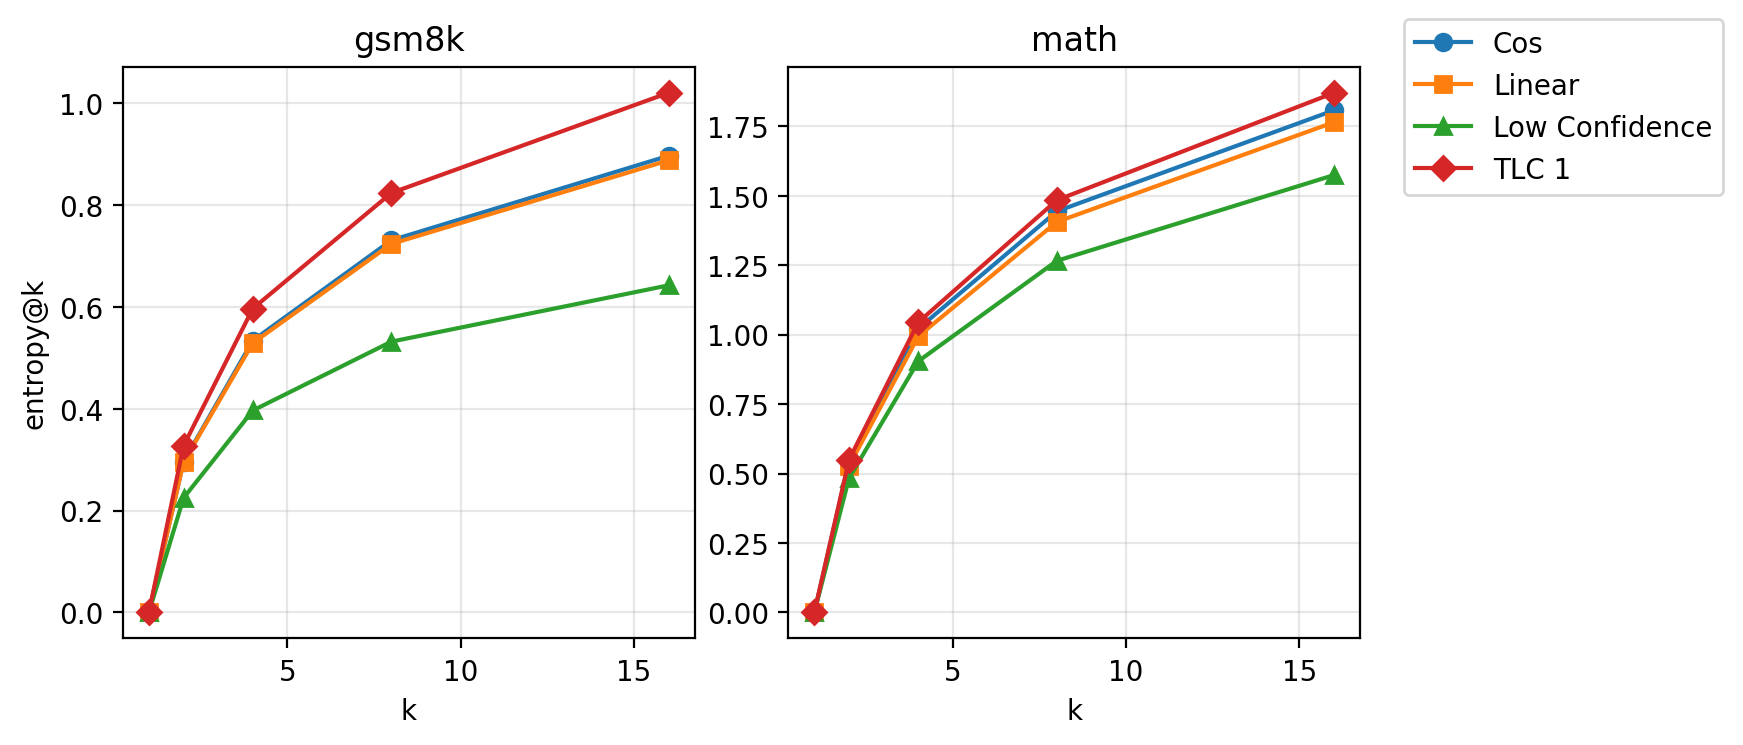
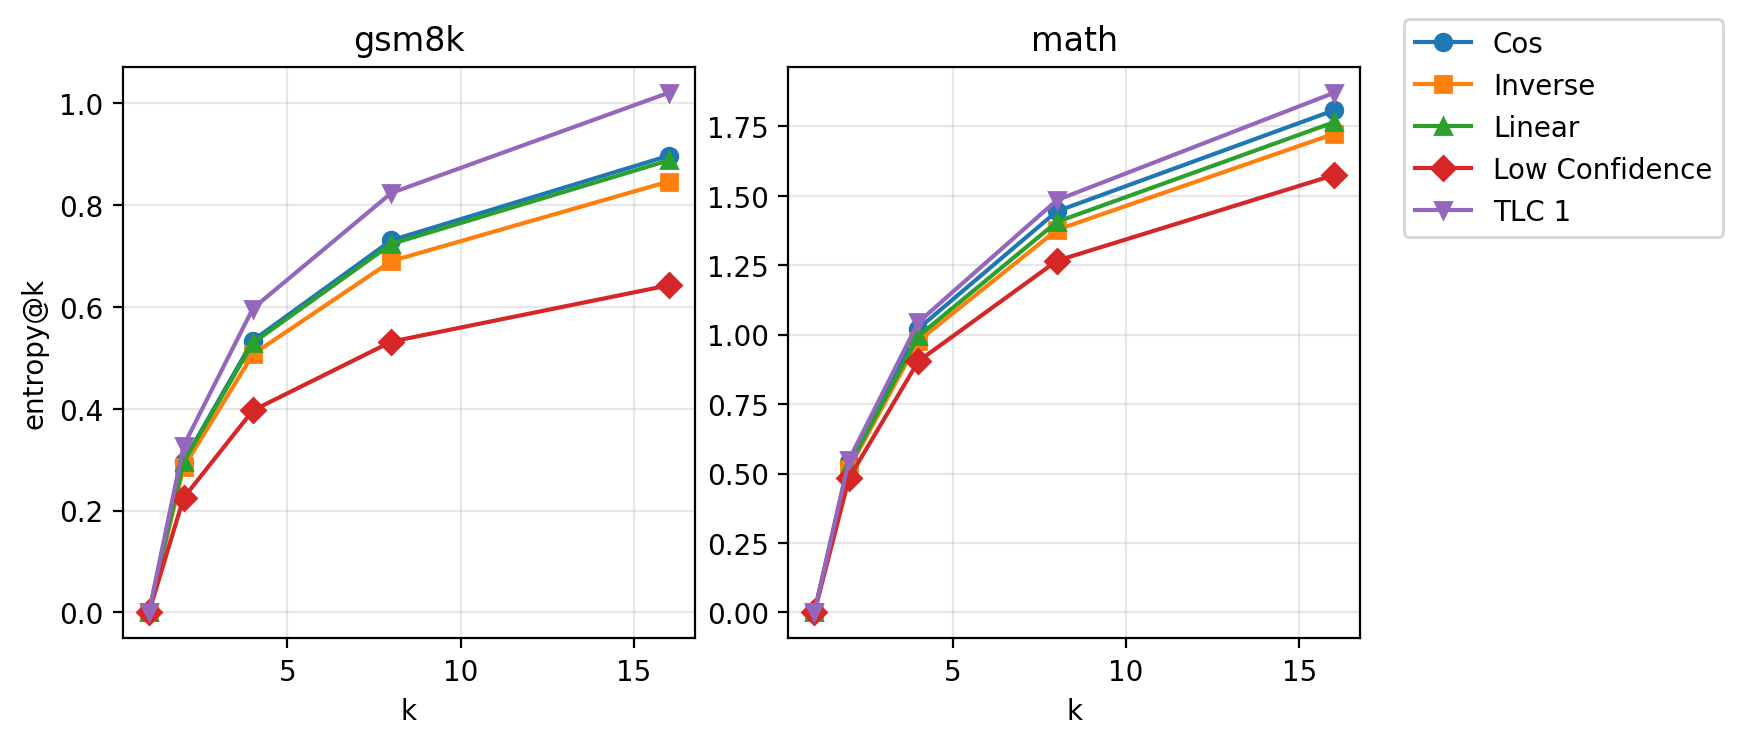
lowered n

diff --git a/analysis.py b/analysis.py
@@ -34,7 +34,7 @@ def stitch_data():
 
 
 markers_ = ["o", "s", "^", "D", "v", "P", "*"]
-shown_methods = ["Cos", "TLC 1", "Linear", "Low Confidence"]
+shown_methods = ["Cos", "TLC 1", "Linear", "Low Confidence", "Inverse"]
 
 def graph_entropy_k_data(per_seed):
     avg = per_seed.groupby(['dataset', 'method']).mean()

diff --git a/main.py b/main.py
@@ -341,7 +341,7 @@ def main(seed, dataset_name, batch, batch_size):
                 }
             }
 
-    N = 32
+    N = 16
     BATCH = 8    
 
     print(f"Starting experiments")
